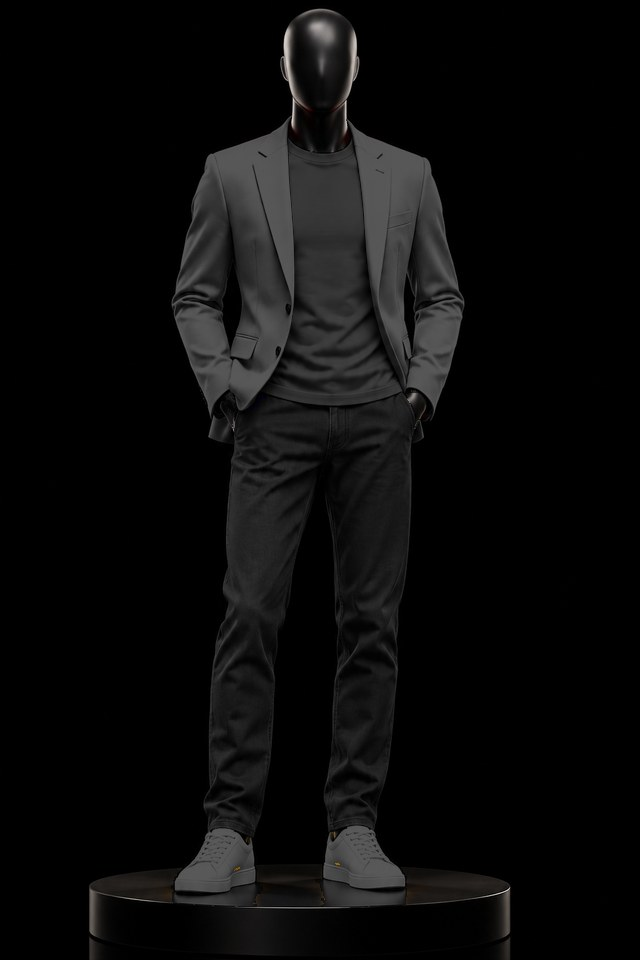
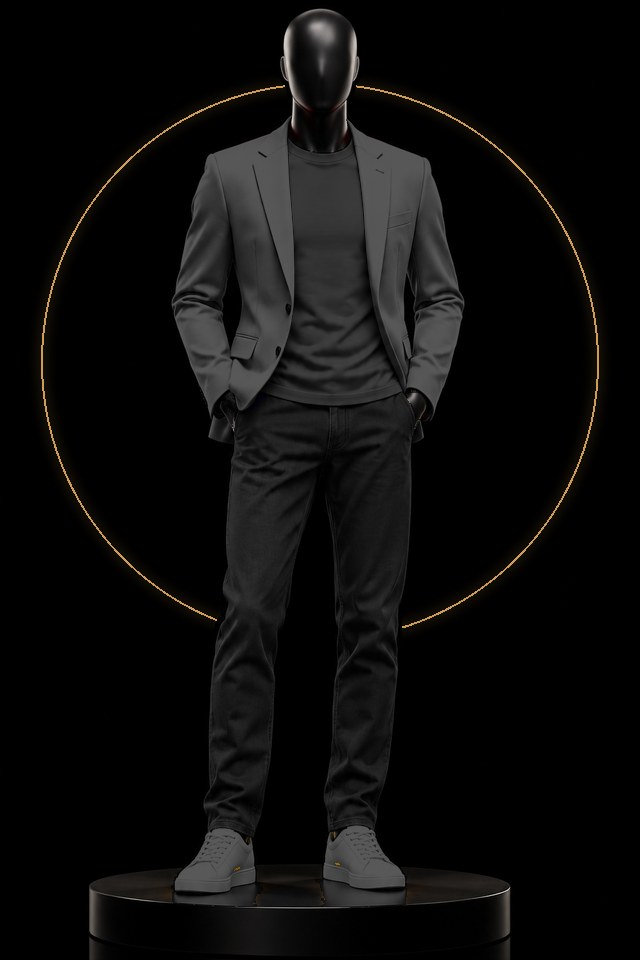
Cerchio dorato aggiunto e manichini felpa aperta, camicia aperta e jogger
Claude-Session: https://claude.ai/code/session_01FhgcwGLB7PZajHSQhYcqPB

diff --git a/web/js/look.js b/web/js/look.js
@@ -560,15 +560,26 @@ function choosePhoto(pieces, occasion) {
   const sub = (cat) => String(pieces.find((p) => p.category === cat)?.subcategory || '').toLowerCase();
   const outer = sub('outerwear');
   const top = sub('top') || def.top[0].toLowerCase();
+  const bottom = sub('bottom') || def.bottom[0].toLowerCase();
   const shoes = sub('shoes') || def.shoes[0].toLowerCase();
+  // Varietà: tra due manichini adatti, proposte diverse ne usano di diversi.
+  const seed = pieces.map((p) => p.id || p.subcategory || '').join('|');
+  let hash = 0;
+  for (const ch of seed) hash = (hash * 31 + ch.charCodeAt(0)) | 0;
+  const pick = (list) => list[Math.abs(hash) % list.length];
   if (/blazer|cappotto|trench/.test(outer) || /completo/.test(sub('dress'))) {
     // Blazer su t-shirt/maglia o con i jeans: look smart casual.
-    if (!/camicia/.test(top) || /jeans/.test(sub('bottom'))) return 'blazer-tshirt';
+    if (!/camicia/.test(top) || /jeans/.test(bottom)) return 'blazer-tshirt';
     return /sneaker|corsa/.test(shoes) ? 'blazer-sneakers' : 'blazer';
   }
-  if (!outer && /felpa|maglione|cardigan|maglia sportiva/.test(top)) return 'felpa';
-  return 'casual'; // giubbotto aperto su maglietta
+  if (/sportiv|legging/.test(bottom) || /tuta/.test(sub('dress'))) return 'sport'; // felpa aperta e jogger
+  if (outer) return 'casual'; // giubbotto aperto su maglietta
+  if (/felpa/.test(top)) return pick(['felpa', 'felpa-zip']);
+  if (/maglione|cardigan|maglia sportiva/.test(top)) return 'felpa';
+  if (/camicia/.test(top)) return 'camicia-aperta';
+  return 'casual';
 }
+
 const photos = {};
 function loadPhoto(name) {
   if (!photos[name]) {
@@ -593,17 +604,22 @@ function loadPhoto(name) {
 }
 
 // Colore per zona: 1 giacca, 2 maglia, 3 pantaloni, 4 scarpe.
-function photoColors(pieces, occasion) {
+function photoColors(pieces, occasion, base) {
   const def = DEFAULTS[occasion] || DEFAULTS.tempo_libero;
   const get = (cat) => colorOf(pieces.find((p) => p.category === cat)?.colors?.[0]);
   const dress = get('dress');
   const suit = /completo|tuta/i.test(pieces.find((p) => p.category === 'dress')?.subcategory || '');
   const top = get('top') || (suit ? null : dress) || colorOf(def.top[1]);
+  const outer = get('outerwear') || (suit ? dress : null);
+  // Felpa aperta, camicia aperta e jogger: senza giacca il capo aperto è la maglia proposta,
+  // e sotto c'è una t-shirt bianca (blu scuro se la maglia è già chiara).
+  const layered = !outer && ['felpa-zip', 'camicia-aperta', 'sport'].includes(base);
+  const tee = colorOf(lum(top) > 0.8 ? 'blu navy' : 'bianco');
   return {
-    // Completo e tuta: giacca e pantaloni dello stesso colore. Senza giacca proposta sembra una
-    // camicia aperta del colore della maglia.
-    1: get('outerwear') || (suit ? dress : top),
-    2: top,
+    // Completo e tuta: giacca e pantaloni dello stesso colore. Altrimenti senza giacca proposta
+    // sembra una camicia aperta del colore della maglia.
+    1: outer || top,
+    2: layered || (suit && !get('top')) ? tee : top,
     3: get('bottom') || dress || colorOf(def.bottom[1]),
     4: get('shoes') || colorOf(def.shoes[1]),
   };
@@ -638,8 +654,9 @@ export function lookView(pieces, occasion) {
   canvas.setAttribute('role', 'img');
   canvas.setAttribute('aria-label', 'Anteprima dell\'outfit sul manichino');
   box.append(canvas);
-  loadPhoto(choosePhoto(pieces, occasion))
-    .then((px) => paintPhoto(canvas, px, photoColors(pieces, occasion)))
+  const base = choosePhoto(pieces, occasion);
+  loadPhoto(base)
+    .then((px) => paintPhoto(canvas, px, photoColors(pieces, occasion, base)))
     .catch(() => box.replaceChildren(lookSvg(pieces, occasion)));
   return box;
 }

diff --git a/web/sw.js b/web/sw.js
@@ -1,5 +1,5 @@
 // Rende l'app installabile e utilizzabile anche offline (le chiamate AI e meteo richiedono la rete).
-const CACHE = 'dress-v21';
+const CACHE = 'dress-v22';
 const SHELL = [
   './',
   './index.html',
@@ -22,6 +22,12 @@ const SHELL = [
   './img/manichino/felpa-zone.png',
   './img/manichino/blazer-tshirt.jpg',
   './img/manichino/blazer-tshirt-zone.png',
+  './img/manichino/felpa-zip.jpg',
+  './img/manichino/felpa-zip-zone.png',
+  './img/manichino/camicia-aperta.jpg',
+  './img/manichino/camicia-aperta-zone.png',
+  './img/manichino/sport.jpg',
+  './img/manichino/sport-zone.png',
   './icons/favicon-v3.png',
   './icons/icon-192-v3.png',
   './icons/icon-512-v3.png',

diff --git a/web/js/app.js b/web/js/app.js
@@ -7,7 +7,7 @@ import {
   CATEGORIES, SEASONS, STYLES, PATTERNS, MOODS, OCCASIONS, FORMALITY, SUBTYPES, PALETTE, describeItem,
 } from './catalog.js';
 
-const APP_VERSION = '21'; // da aumentare a ogni modifica, si vede nelle Impostazioni
+const APP_VERSION = '22'; // da aumentare a ogni modifica, si vede nelle Impostazioni
 const view = document.getElementById('view');
 const titleEl = document.getElementById('view-title');
 

diff --git a/tools/manichino/prepara.py b/tools/manichino/prepara.py
@@ -6,7 +6,8 @@ scarpe gialle; tutto il resto è scuro. Da qui si ricavano:
   - <nome>-zone.png R = zona (60 giacca, 120 maglia, 180 pantaloni, 240 scarpe),
                     G = luce del tessuto (128 = colore pieno, sotto ombra, sopra luce),
                     B = copertura del capo (255 pieno, meno sui bordi)
-Uso: python3 tools/manichino/prepara.py tools/manichino/casual-maschera.png web/img/manichino/casual
+Uso: python3 tools/manichino/prepara.py tools/manichino/casual-maschera.png web/img/manichino/casual [--cerchio]
+Con --cerchio aggiunge il cerchio dorato dietro il manichino (per le immagini che non ce l'hanno).
 """
 import sys
 import numpy as np
@@ -14,6 +15,7 @@ from PIL import Image, ImageFilter
 
 W, H = 640, 960
 src, out = sys.argv[1], sys.argv[2]
+ring = '--cerchio' in sys.argv[3:]
 im = Image.open(src).convert('RGB').resize((W, H), Image.LANCZOS)
 a = np.asarray(im).astype(np.float32) / 255
 mx, mn = a.max(2), a.min(2)
@@ -97,5 +99,25 @@ Image.fromarray(zpng).save(out + '-zone.png', optimize=True)
 # Base: dove c'è un capo resta solo la luce in grigio scuro (il colore lo mette l'app).
 gray = (v * 0.35)[..., None].repeat(3, 2)
 base = np.where((zone > 0)[..., None], gray, a)
+if ring:
+    from PIL import ImageDraw
+    # Sfondo = nero collegato ai bordi dell'immagine; tutto il resto (manichino, capi, piedistallo) sta davanti.
+    solid = (v > 0.05) | (zone > 0)
+    solid = np.asarray(Image.fromarray((solid * 255).astype(np.uint8)).filter(ImageFilter.MaxFilter(5))) > 0
+    m = Image.fromarray(np.where(solid, 0, 255).astype(np.uint8)).copy()
+    for seed in ((0, 0), (W - 1, 0), (0, H // 2), (W - 1, H // 2)):
+        if m.getpixel(seed) == 255:
+            ImageDraw.floodfill(m, seed, 128)
+    bg = np.asarray(m) == 128
+    bg = np.asarray(Image.fromarray((bg * 255).astype(np.uint8)).filter(ImageFilter.MinFilter(3))) > 0
+    # Cerchio come nelle altre immagini: centro sopra il bacino, raggio fino ai fianchi del busto.
+    cx, cy, r = W / 2, H * 0.377, W * 0.435
+    layer = Image.new('L', (W, H), 0)
+    ImageDraw.Draw(layer).ellipse([cx - r, cy - r, cx + r, cy + r], outline=255, width=2)
+    core = np.asarray(layer).astype(np.float32) / 255
+    glow = np.asarray(layer.filter(ImageFilter.GaussianBlur(6))).astype(np.float32) / 255
+    gold = np.array([0.93, 0.70, 0.38])
+    add = (core[..., None] * 0.8 + glow[..., None] * 0.6) * gold
+    base = np.where(bg[..., None], np.clip(base + add, 0, 1), base)
 Image.fromarray((base * 255).astype(np.uint8)).save(out + '.jpg', quality=88)
 print('ok', {z: int((zone == z).sum()) for z in (1, 2, 3, 4)})
